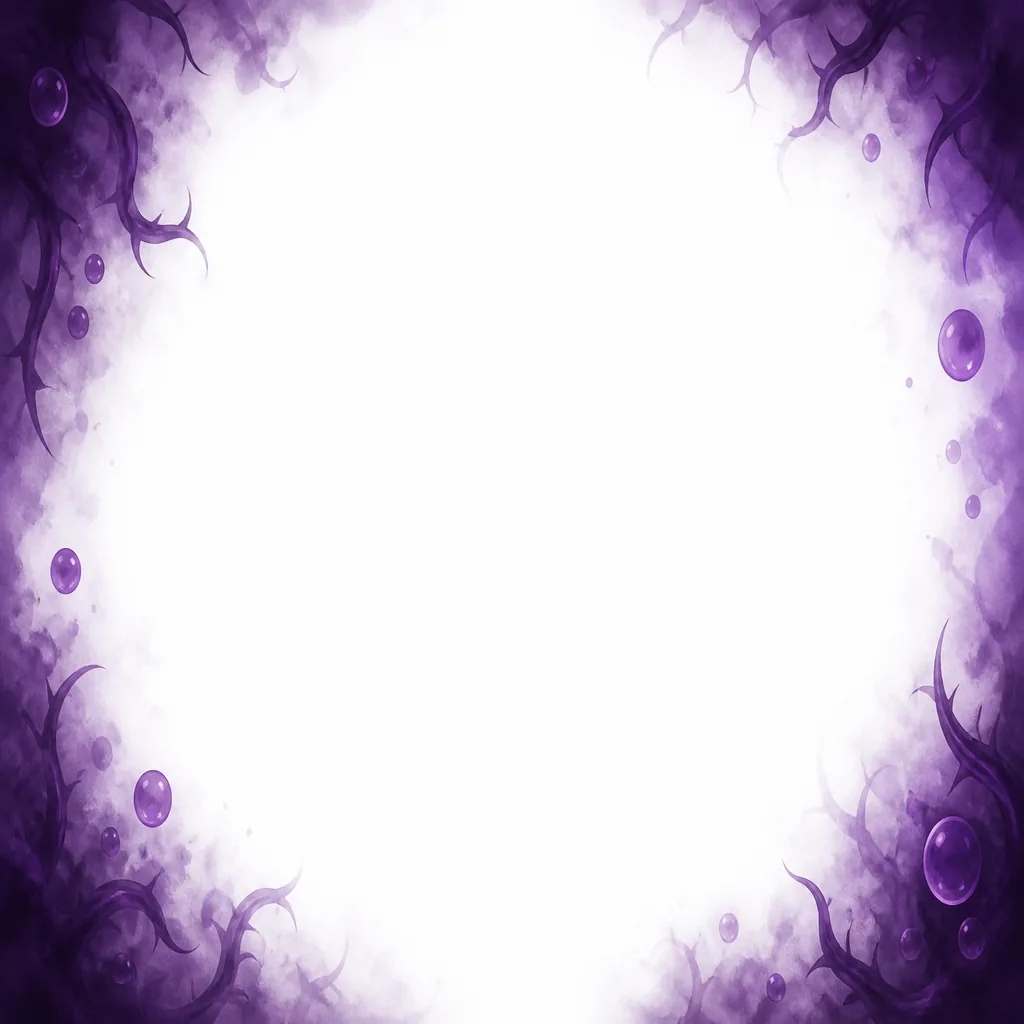
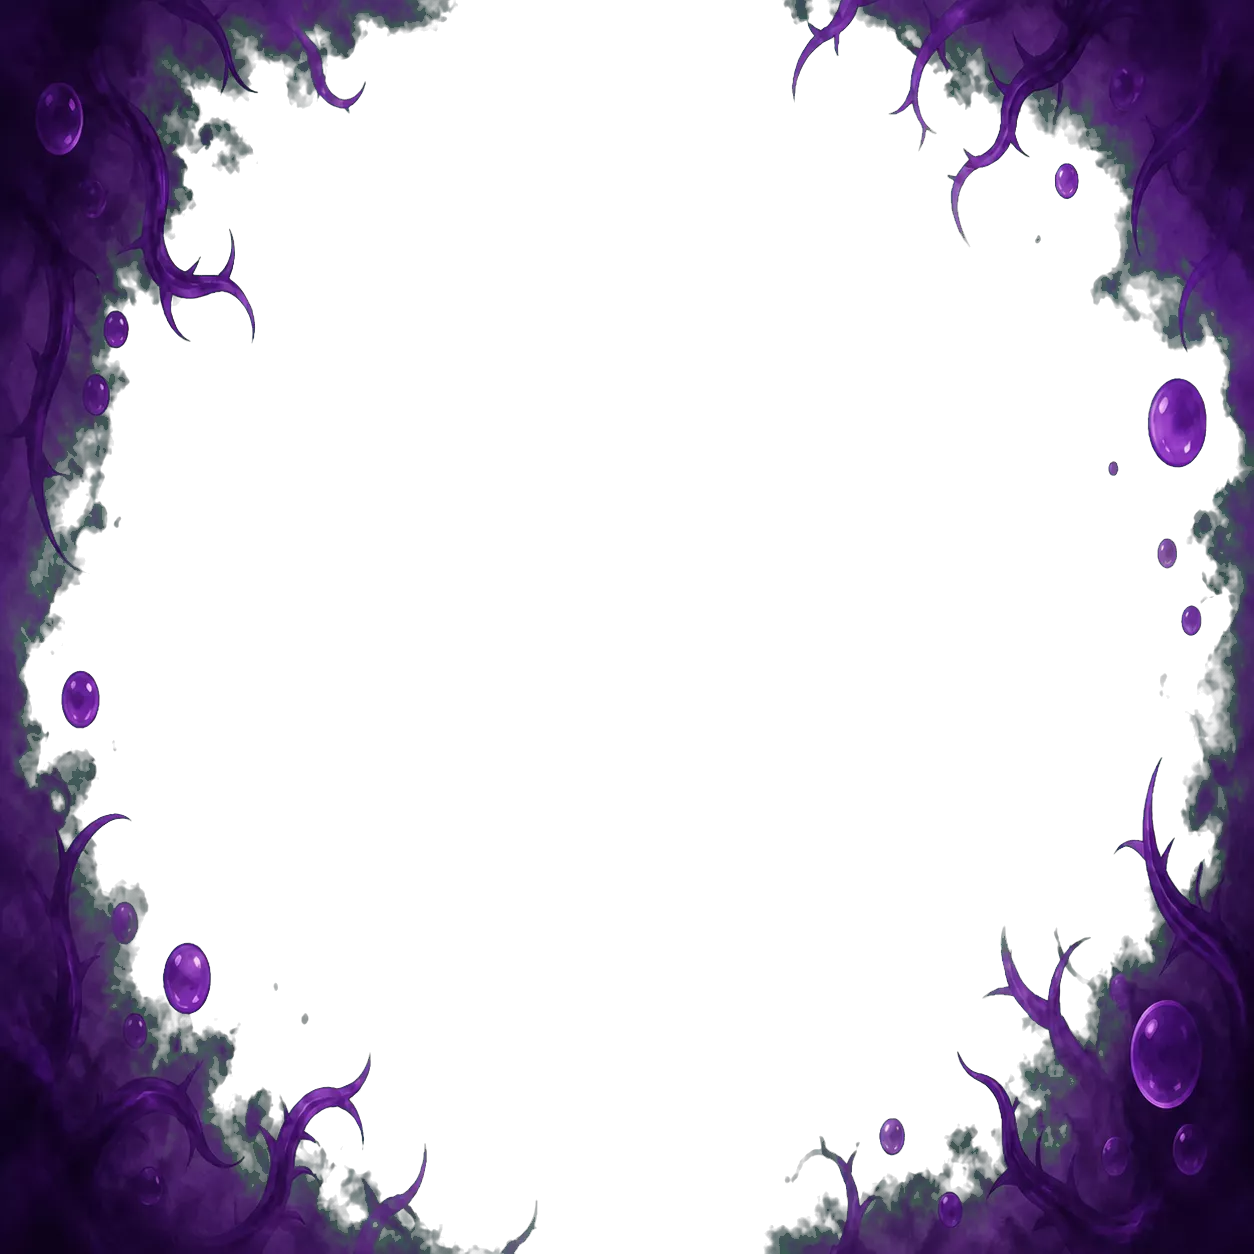
fix(status-effects): remove vignette backgrounds

Changed region(s): [[0.5938, 0.0, 1.0, 1.0], [0.0, 0.0, 0.4375, 1.0]]

diff --git a/shared/patchNotes.ts b/shared/patchNotes.ts
@@ -86,6 +86,7 @@ const PATCH_NOTES: readonly PatchNoteDefinition[] = [
             '레벨이 오를 때마다 최대 배고픔과 최대 수분이 각각 1씩 증가하도록 성장 규칙을 추가했습니다.',
             '이미 삭제된 인벤토리 아이템과 자동 저장이 겹쳐도 저장이 중단되지 않고, 저장 도중 생긴 아이템 변경도 다음 저장에 안전하게 반영되도록 수정했습니다.',
             'Lv.200 엘리트 전용 공격 기술이 이미 성장한 일반·서브 직업 기술보다 약하지 않도록 물리·마법 티어 계수를 강화했습니다.',
+            '상태이상 화면 효과의 검은 원본 배경이 화면에 덮이던 문제를 수정하고 효과색만 자연스럽게 합성되도록 개선했습니다.',
         ],
     ),
     definePatchNote('1.0.12', '2026-07-26',

diff --git a/client/src/components/status-effects/StatusEffectScreenEffects.module.scss b/client/src/components/status-effects/StatusEffectScreenEffects.module.scss
@@ -6,7 +6,6 @@
     height: var(--app-viewport-height, 100vh);
     overflow: hidden;
     pointer-events: none;
-    contain: strict;
 }
 
 .layer {
@@ -18,6 +17,7 @@
     border-image-width: 1;
     border-image-outset: 0;
     border-image-repeat: stretch;
+    background: transparent;
     opacity: 0;
     transition: opacity 650ms ease;
     will-change: opacity;
@@ -31,11 +31,19 @@
 .fire,
 .electric,
 .frozen {
-    mix-blend-mode: screen;
+    mix-blend-mode: plus-lighter;
 }
 
 .poison {
-    mix-blend-mode: multiply;
+    mix-blend-mode: normal;
+}
+
+@supports not (mix-blend-mode: plus-lighter) {
+    .fire,
+    .electric,
+    .frozen {
+        mix-blend-mode: screen;
+    }
 }
 
 @keyframes status-effect-breathe {

diff --git a/docs/systems/status-effects.md b/docs/systems/status-effects.md
@@ -64,7 +64,7 @@ Metadata는 Skill/Item과 같은 원본+top-level delta 방식이다. `getMetada
 
 - `/상태창` 맨 아래는 `Lv.레벨 [아이콘]효과명 MM:SS`를 표시하며 효과명 hover에는 계산된 설명과 현재/최대 지속시간이 나온다.
 - `playerStats.statusEffects`는 `getStatusEffectDisplaySnapshots()`을 ChatNode 설명으로 변환해 전송한다. PlayerStatusHud는 아이콘 위에 남은 지속시간 비율을 반시계 방향 fill로 표시하고 hover/focus 상세 정보를 제공한다.
-- 클라이언트 `StatusScreenEffectPreset`은 같은 HUD snapshot을 화염·독·빙결·감전 화면 피드백으로 가공한다. 가장자리 WebP는 CSS `border-image` 9-slice로 늘려 중앙 UI를 덮지 않으며, `pointer-events: none`, 반응형 테두리 두께와 모션 감소 설정을 유지한다. 독·맹독·마비독·부패는 메인/상태 HUD의 HP를 보라색으로 바꾸고, 마비독·기절·제압·감전 계열은 채팅 메시지 외곽선을 점멸시킨다. 감전 preset은 이후 해당 서버 효과 ID가 등록되면 별도 UI 수정 없이 활성화된다.
+- 클라이언트 `StatusScreenEffectPreset`은 같은 HUD snapshot을 화염·독·빙결·감전 화면 피드백으로 가공한다. 투명 알파 가장자리 WebP는 CSS `border-image` 9-slice로 늘려 중앙 UI를 덮지 않으며, `pointer-events: none`, 반응형 테두리 두께와 모션 감소 설정을 유지한다. 화염·빙결·감전은 `plus-lighter` 가산 합성(`screen` fallback)을 사용하고 합성 레이어가 paint containment에 격리되지 않으므로 어두운 사각 배경을 만들지 않는다. 독·맹독·마비독·부패는 메인/상태 HUD의 HP를 보라색으로 바꾸고, 마비독·기절·제압·감전 계열은 채팅 메시지 외곽선을 점멸시킨다. 감전 preset은 이후 해당 서버 효과 ID가 등록되면 별도 UI 수정 없이 활성화된다.
 - 감각 50 이상인 플레이어는 `/상태이상정보 <효과 이름> [레벨]`로 임의 레벨의 가공된 설명을 확인한다. 레벨을 생략하면 1레벨이며, 계산 결과 hover에는 등록된 레벨식·대상 능력치 계수가 표시된다. 명령 출력과 자동완성은 내부 상태이상 ID·metadata key를 노출하지 않는다.
 - 관리자 `/상태이상부여 대상 상태이상코드 레벨 시간`은 온라인 Player만 대상으로 `Entity.applyStatusEffect()`를 호출한다. 상태효과가 런타임 전용이므로 오프라인 객체에 적용하거나 DB에 저장하지 않는다.
 

diff --git a/client/src/components/status-effects/Overview.md b/client/src/components/status-effects/Overview.md
@@ -4,6 +4,6 @@
 
 - `statusEffectVisuals.ts`: 상태효과 ID를 화염·독·빙결·감전 화면 preset, 독성 HP 색과 마비성 메시지 교란으로 변환하는 클래스형 enum과 resolver.
 - `StatusEffectScreenEffects.tsx`: resolver 결과의 활성 레이어만 렌더링하는 포인터 입력 비활성 화면 overlay.
-- `StatusEffectScreenEffects.module.scss`: 1024×1024 WebP 가장자리 이미지를 CSS `border-image` 9-slice로 늘린다. 화면 비율과 무관하게 중앙 채팅 영역은 덮지 않고 테두리 두께만 `vmin`과 `clamp()`로 반응한다.
+- `StatusEffectScreenEffects.module.scss`: 투명 알파 WebP 가장자리 이미지를 CSS `border-image` 9-slice로 늘린다. 화면 비율과 무관하게 중앙 채팅 영역은 덮지 않고 테두리 두께만 `vmin`과 `clamp()`로 반응한다. 화염·빙결·감전은 상위 paint containment에 격리되지 않은 가산 합성을 사용한다.
 
 새 주요 상태효과는 서버 ID를 `StatusScreenEffectPreset` 또는 메시지 교란 ID 집합에 등록하고, 새 시각 계열이 필요할 때만 `client/public/effects/status/` 에셋을 추가한다.
